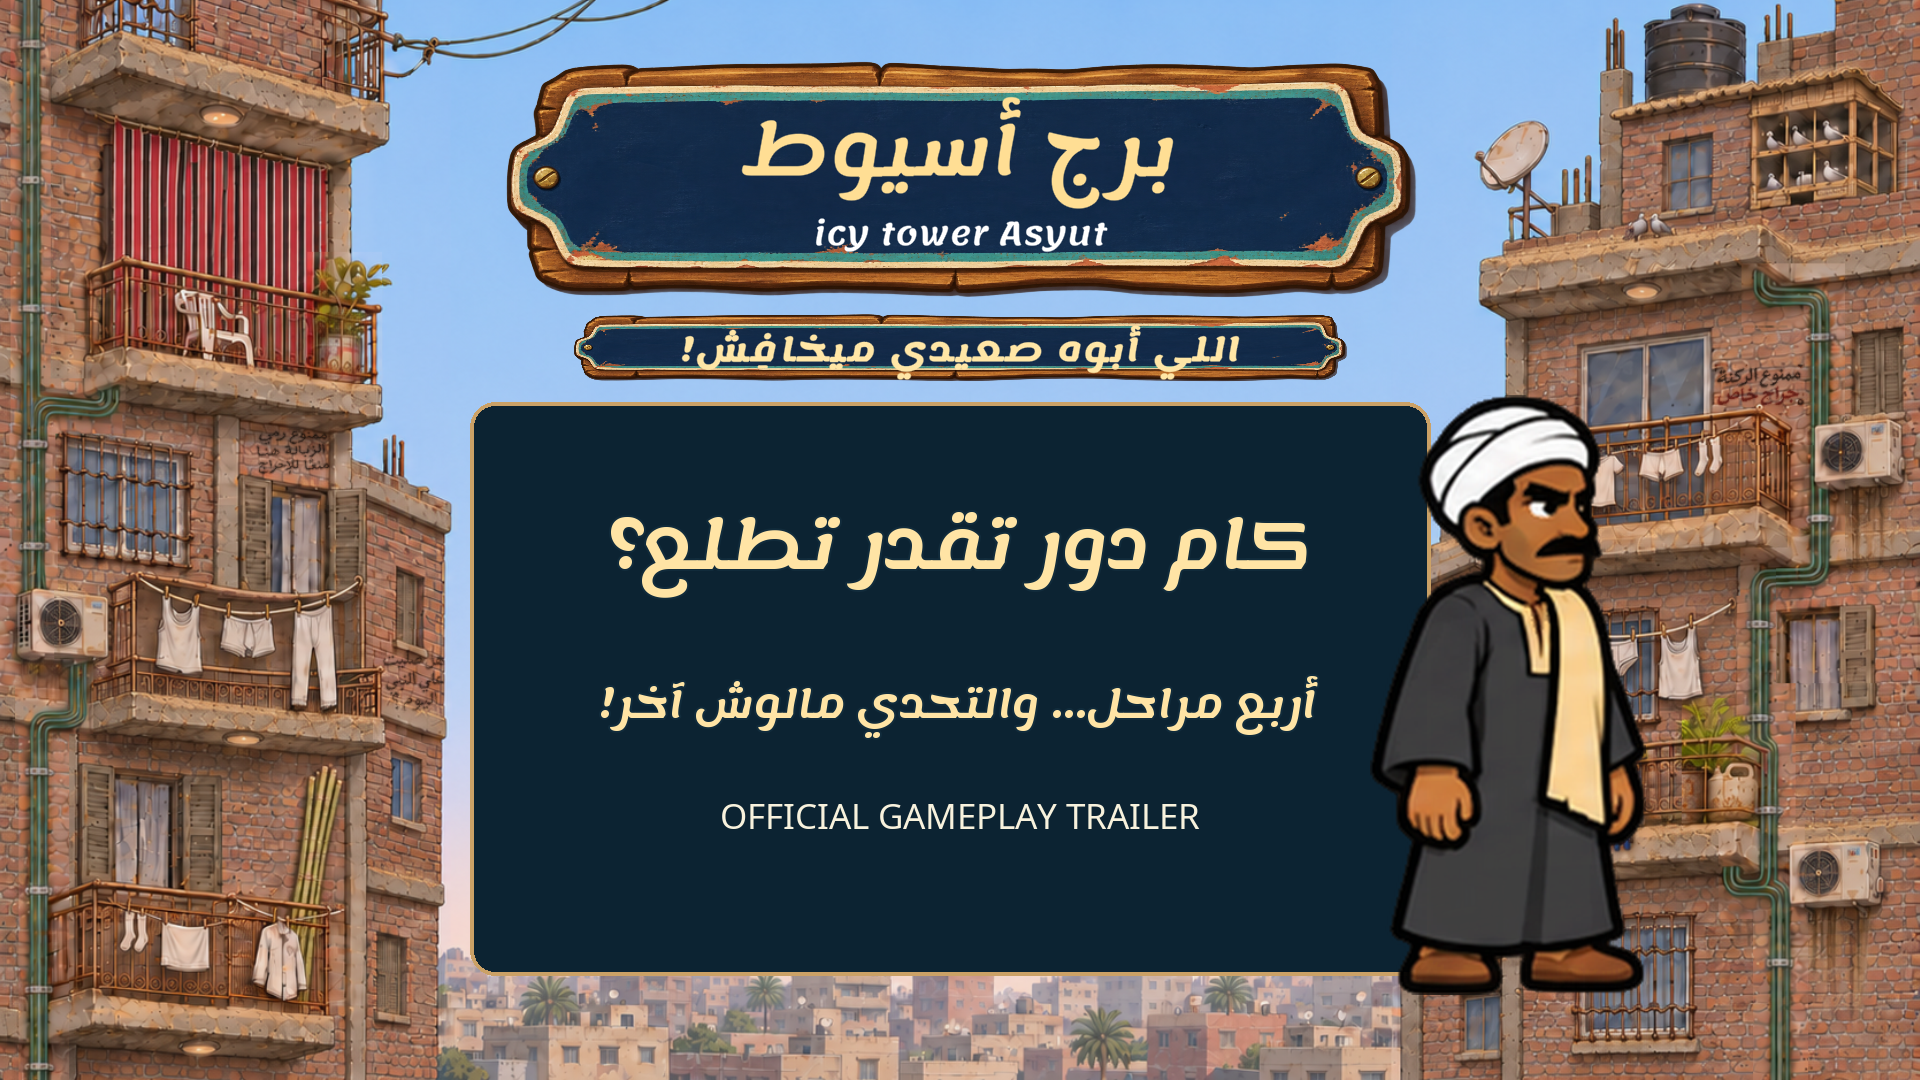
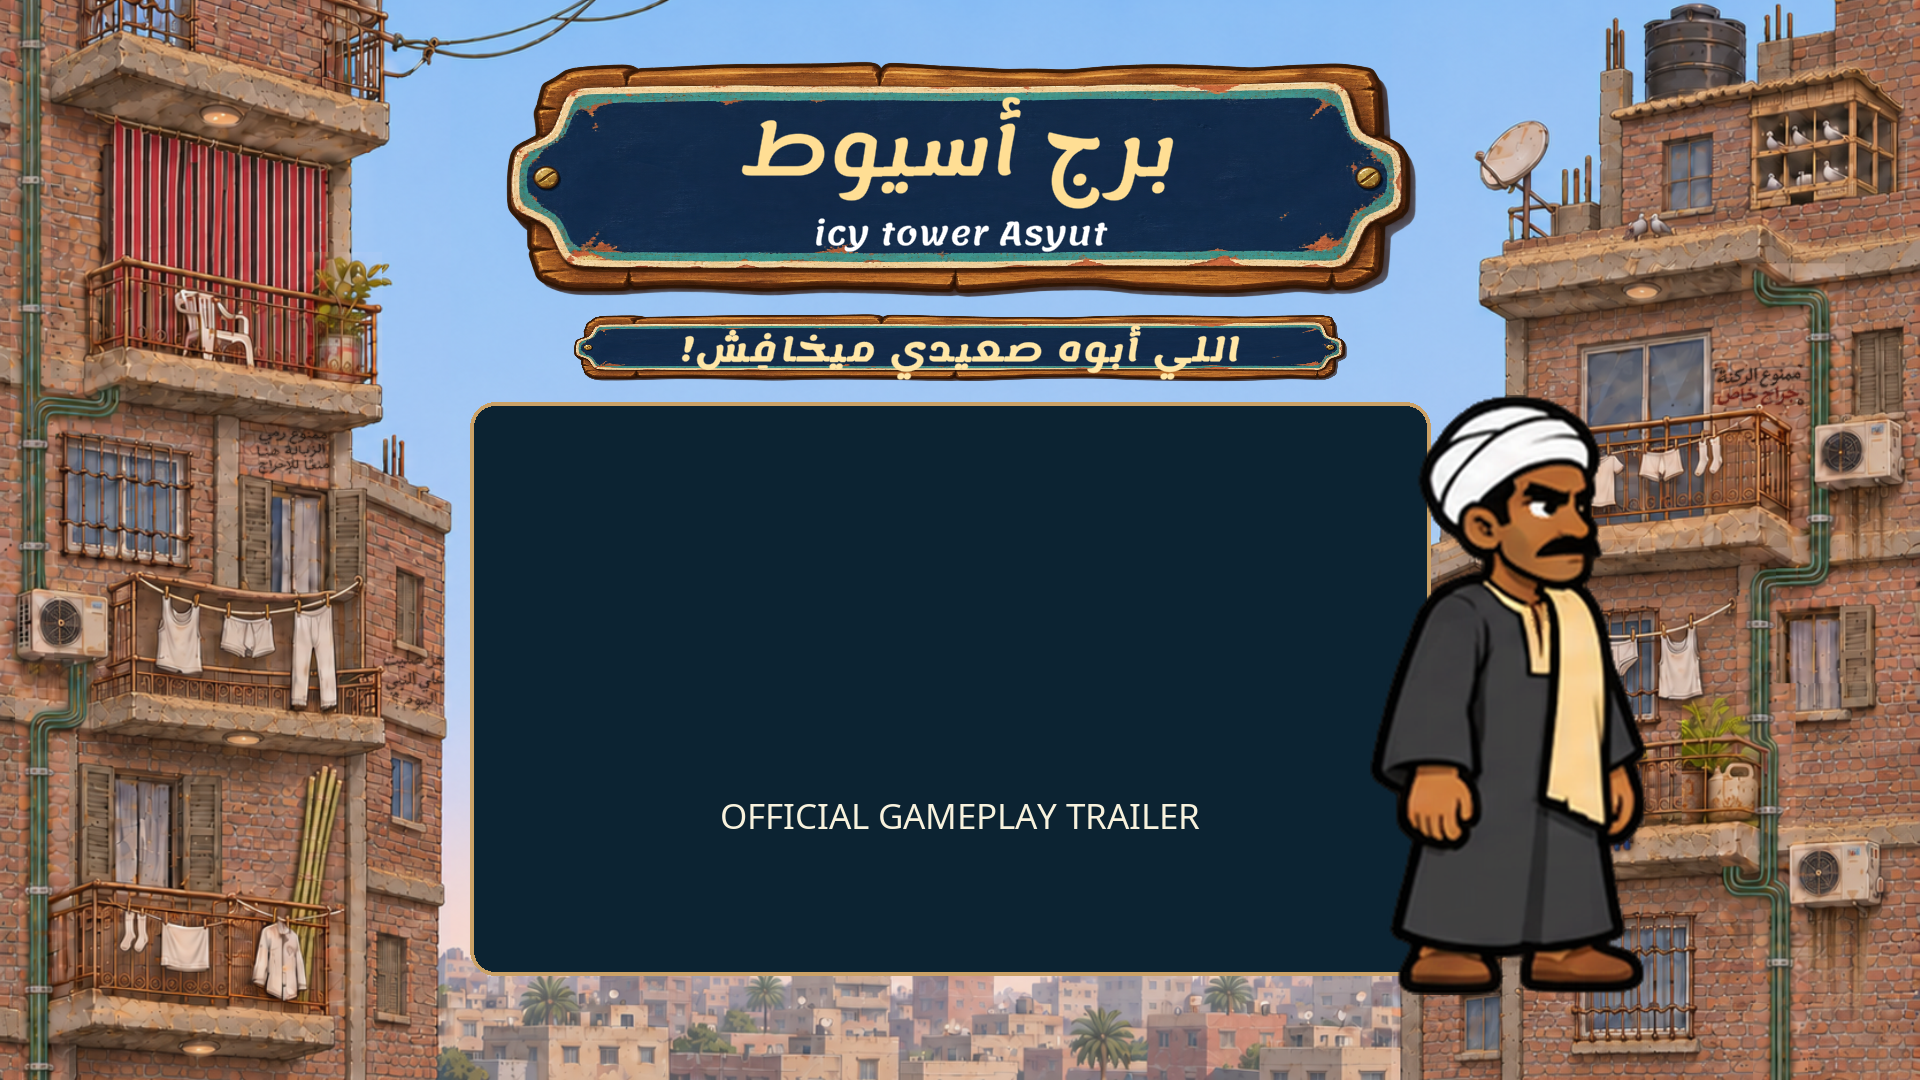
Include approved soundtrack and remove added promotional slogans

Changed region(s): [[0.3125, 0.4583, 0.6875, 0.55], [0.3125, 0.6417, 0.6875, 0.6722]]

diff --git a/README.md b/README.md
@@ -1,16 +1,14 @@
-https://github.com/user-attachments/assets/18a614be-7410-43f1-9e62-dbc0ee036a21
+https://github.com/user-attachments/assets/8670173c-17f0-4388-85c8-47365bcf5948
 
 # برج أسيوط · icy tower Asyut
 
-**من حواري أسيوط... لفوق!**
 
 An Egyptian arcade tower climber. Build speed, leap across floors, bounce off walls and chain somersaults through four stages inspired by the streets of Assiut.
 
-**[▶ Watch the trailer](https://github.com/user-attachments/assets/18a614be-7410-43f1-9e62-dbc0ee036a21)** · **[Download for Windows](https://github.com/mohamadhussien6/borg-asyut/releases/latest/download/Borg_Asyut_Windows.zip)** · **[Game documentation](https://github.com/mohamadhussien6/borg-asyut/releases/latest/download/Borg_Asyut_Documentation.pdf)**
+**[▶ Watch the trailer](https://github.com/user-attachments/assets/8670173c-17f0-4388-85c8-47365bcf5948)** · **[Download for Windows](https://github.com/mohamadhussien6/borg-asyut/releases/latest/download/Borg_Asyut_Windows.zip)** · **[Game documentation](https://github.com/mohamadhussien6/borg-asyut/releases/latest/download/Borg_Asyut_Documentation.pdf)**
 
-> **اللي أبوه صعيدي ميخافِش!**
 
-## اجري... انط... شقلب!
+## Gameplay
 
 Keep your momentum to jump higher, skip floors to grow your combo, and watch the shisha danger meter as the camera climbs. Fall behind, restart, and try to beat your saved best score.
 
@@ -53,7 +51,7 @@ Keep your momentum to jump higher, skip floors to grow your combo, and watch the
 ## Run the project
 
 1. Clone this repository with Git LFS installed, then run `git lfs pull`.
-2. Add the project folder in Unity Hub .
+2. Add the project folder in Unity Hub.
 3. Allow Unity to restore packages and regenerate its Library folder.
 4. Open `Assets/Ma3alem/Scenes/MainMenu.unity` and press Play.
 
@@ -68,5 +66,5 @@ For the standalone version, extract the complete Windows ZIP and run `icy tower 
 - Supplied Saidi voice recordings retain their original performance, pitch and speed. Project sound effects remain in Assets/Ma3alem/Audio.
 - Lemonada and Noto fonts retain their SIL Open Font License notices under Assets/Ma3alem/Fonts and third-party resource folders.
 - RTLTMPro retains its MIT license under Assets/ThirdParty. Other bundled TMP font notices remain alongside their resources.
-- The selected local MP3 is excluded from repository source and the distributable Windows build. The private promotional trailer uses the owner-selected soundtrack; no replacement track was created. No public music-redistribution license is asserted.
+- The selected soundtrack is included with the owner’s confirmed permission to distribute it. Original supplied voice recordings are preserved.
 

diff --git a/DOCUMENTATION.md b/DOCUMENTATION.md
@@ -42,7 +42,7 @@ Fonts and Arabic | Lemonada and Noto font resources with SIL Open Font License n
 
 Unity content | MainMenu and Gameplay scenes, player/platform/audio prefabs, PhysicsMaterial2D resources, Unity UI and Test Framework packages.
 
-The selected local-preview MP3 remains in the working project for local playback. In accordance with the repository packaging rule, LocalPreviewOnly is excluded from the source submission and the submitted Windows build; music references in the submission are intentionally empty. No replacement soundtrack is added. Voice lines and sound effects remain available. Font and third-party license files are retained in the source package.
+The owner-approved selected soundtrack is embedded in the Windows build and stored at Assets/Ma3alem/Audio/Music/Selected_Music.mp3. The duplicate LocalPreviewOnly directory remains excluded from source packages. No replacement soundtrack is added. Voice lines and sound effects remain available. Font and third-party license files are retained in the source package.
 
 Actual Windows gameplay capture showing the fourth-stage platform and Arabic stage introduction. Separate captures of all four stages are included in Evidence.
 

diff --git a/Documentation/Final/Asyut_Game_Documentation.md b/Documentation/Final/Asyut_Game_Documentation.md
@@ -42,7 +42,7 @@ Fonts and Arabic | Lemonada and Noto font resources with SIL Open Font License n
 
 Unity content | MainMenu and Gameplay scenes, player/platform/audio prefabs, PhysicsMaterial2D resources, Unity UI and Test Framework packages.
 
-The selected local-preview MP3 remains in the working project for local playback. In accordance with the repository packaging rule, LocalPreviewOnly is excluded from the source submission and the submitted Windows build; music references in the submission are intentionally empty. No replacement soundtrack is added. Voice lines and sound effects remain available. Font and third-party license files are retained in the source package.
+The owner-approved selected soundtrack is embedded in the Windows build and stored at Assets/Ma3alem/Audio/Music/Selected_Music.mp3. The duplicate LocalPreviewOnly directory remains excluded from source packages. No replacement soundtrack is added. Voice lines and sound effects remain available. Font and third-party license files are retained in the source package.
 
 Actual Windows gameplay capture showing the fourth-stage platform and Arabic stage introduction. Separate captures of all four stages are included in Evidence.
 

diff --git a/AGENTS.md b/AGENTS.md
@@ -5,6 +5,6 @@
 - Seven main gameplay scripts plus one necessary BuildingBackdrop presentation helper; no police simulation/combat/inventory/progression systems.
 - Four height zones remain within one continuous run. Facades must cover the camera at every height.
 - Supplied voice files are immutable; preserve original pitch, speed and performance.
-- Exact supplied MP3 is local-only until rights are confirmed. Never include LocalPreviewOnly in submission ZIPs or default builds.
+- The owner confirmed permission to distribute the selected music on 2026-11-24. Approved track: Assets/Ma3alem/Audio/Music/Selected_Music.mp3. Keep the duplicate LocalPreviewOnly folder outside source packages.
 - Read relevant scripts, scene/prefab dependencies and TASKS before editing. Distinguish actual Unity/build/native checks from static checks and human listening/playthrough.
 - PDF has exactly four main sections. Preserve working progress; do not replay obsolete generators.

diff --git a/CURRENT_STATUS.md b/CURRENT_STATUS.md
@@ -4,5 +4,5 @@
 
 Final local native check: all four zones, floor98, 18 jumps, 21 landings, 18 wall rebounds, zero logged errors, about60FPS at1280x720. Pause/resume, Game Over/restart and menu return passed. Score persistence was not re-tested. Earlier complete Play Mode run did not finish; no complete passing suite is claimed.
 
-current Windows submission build compiled successfully without the local-only MP3 or verification driver. Native gameplay captures and detailed state checks refer to the local current executable and are labelled accordingly. A manual acceptance playthrough/listening review remains the manual review.
+current Windows submission build compiled successfully with the selected soundtrack and without the verification driver. Native gameplay captures and detailed state checks refer to the local current executable and are labelled accordingly. A manual acceptance playthrough/listening review remains the manual review.
 

diff --git a/TESTING_CHECKLIST.md b/TESTING_CHECKLIST.md
@@ -4,6 +4,6 @@ Passed on final current local executable: all four zones, jump/landing, both wal
 
 Static preservation passed against current: gameplay scripts, scenes, prefabs, physics/timing and sprite metadata unchanged by platform update. Only four art PNGs, stage-name strings and build bookkeeping changed.
 
-current submission Windows build: compilation passed; local music excluded and verification driver omitted. Its full native playthrough was not run in this packaging step.
+current submission Windows build: compilation passed; selected music included and verification driver omitted. Its full native playthrough was not run in this packaging step.
 
 Not completed: full Unity Play Mode suite (earlier run hung), fresh best-score persistence verification, manual acceptance. Use Unity Test Runner for retained EditMode/PlayMode tests after source import. Do not report these pending checks as passed.

diff --git a/ASSET_INVENTORY.md b/ASSET_INVENTORY.md
@@ -6,7 +6,7 @@
 - Existing plaques, logo, shisha indicator, smoke and landing effects remain in Art and UI resources.
 - Assets/Audio/VoiceLines:nine supplied speech recordings, unchanged performance.
 - Assets/Ma3alem/Audio:project sound effects. Deleted alternate music was not reintroduced.
-- Assets/LocalPreviewOnly:selected MP3 for local playback only; excluded from submission archive and build.
+- Assets/Ma3alem/Audio/Music/Selected_Music.mp3: owner-approved selected soundtrack included in the source and Windows build.
 - Lemonada/Noto font resources retain SIL OFL notices. RTLTMPro and TMP resources retain bundled license notices.
 - Scenes, prefabs, physics materials, package manifests and all .meta files retained. Older source assets remain to preserve editor/build references; generated caches and historical exported previews were removed.
 

diff --git a/TASKS.md b/TASKS.md
@@ -1,7 +1,7 @@
 
 - Current current platform art and three-second Arabic names integrated.
 - Four-section Word and PDF documentation updated from current source and prefabs.
-- Submission Windows build compiled; source package excludes local-only music.
+- Windows build compiled with the selected soundtrack; distribution permission confirmed by the owner.
 - Final local native gameplay check reached all four zones without logged errors.
 - Remaining checks: full Unity Play Mode suite, fresh score-persistence test, manual play/listening acceptance.
 - Keep Assets, Packages, ProjectSettings and .meta files. Do not replay obsolete art generators or tuning methods.
